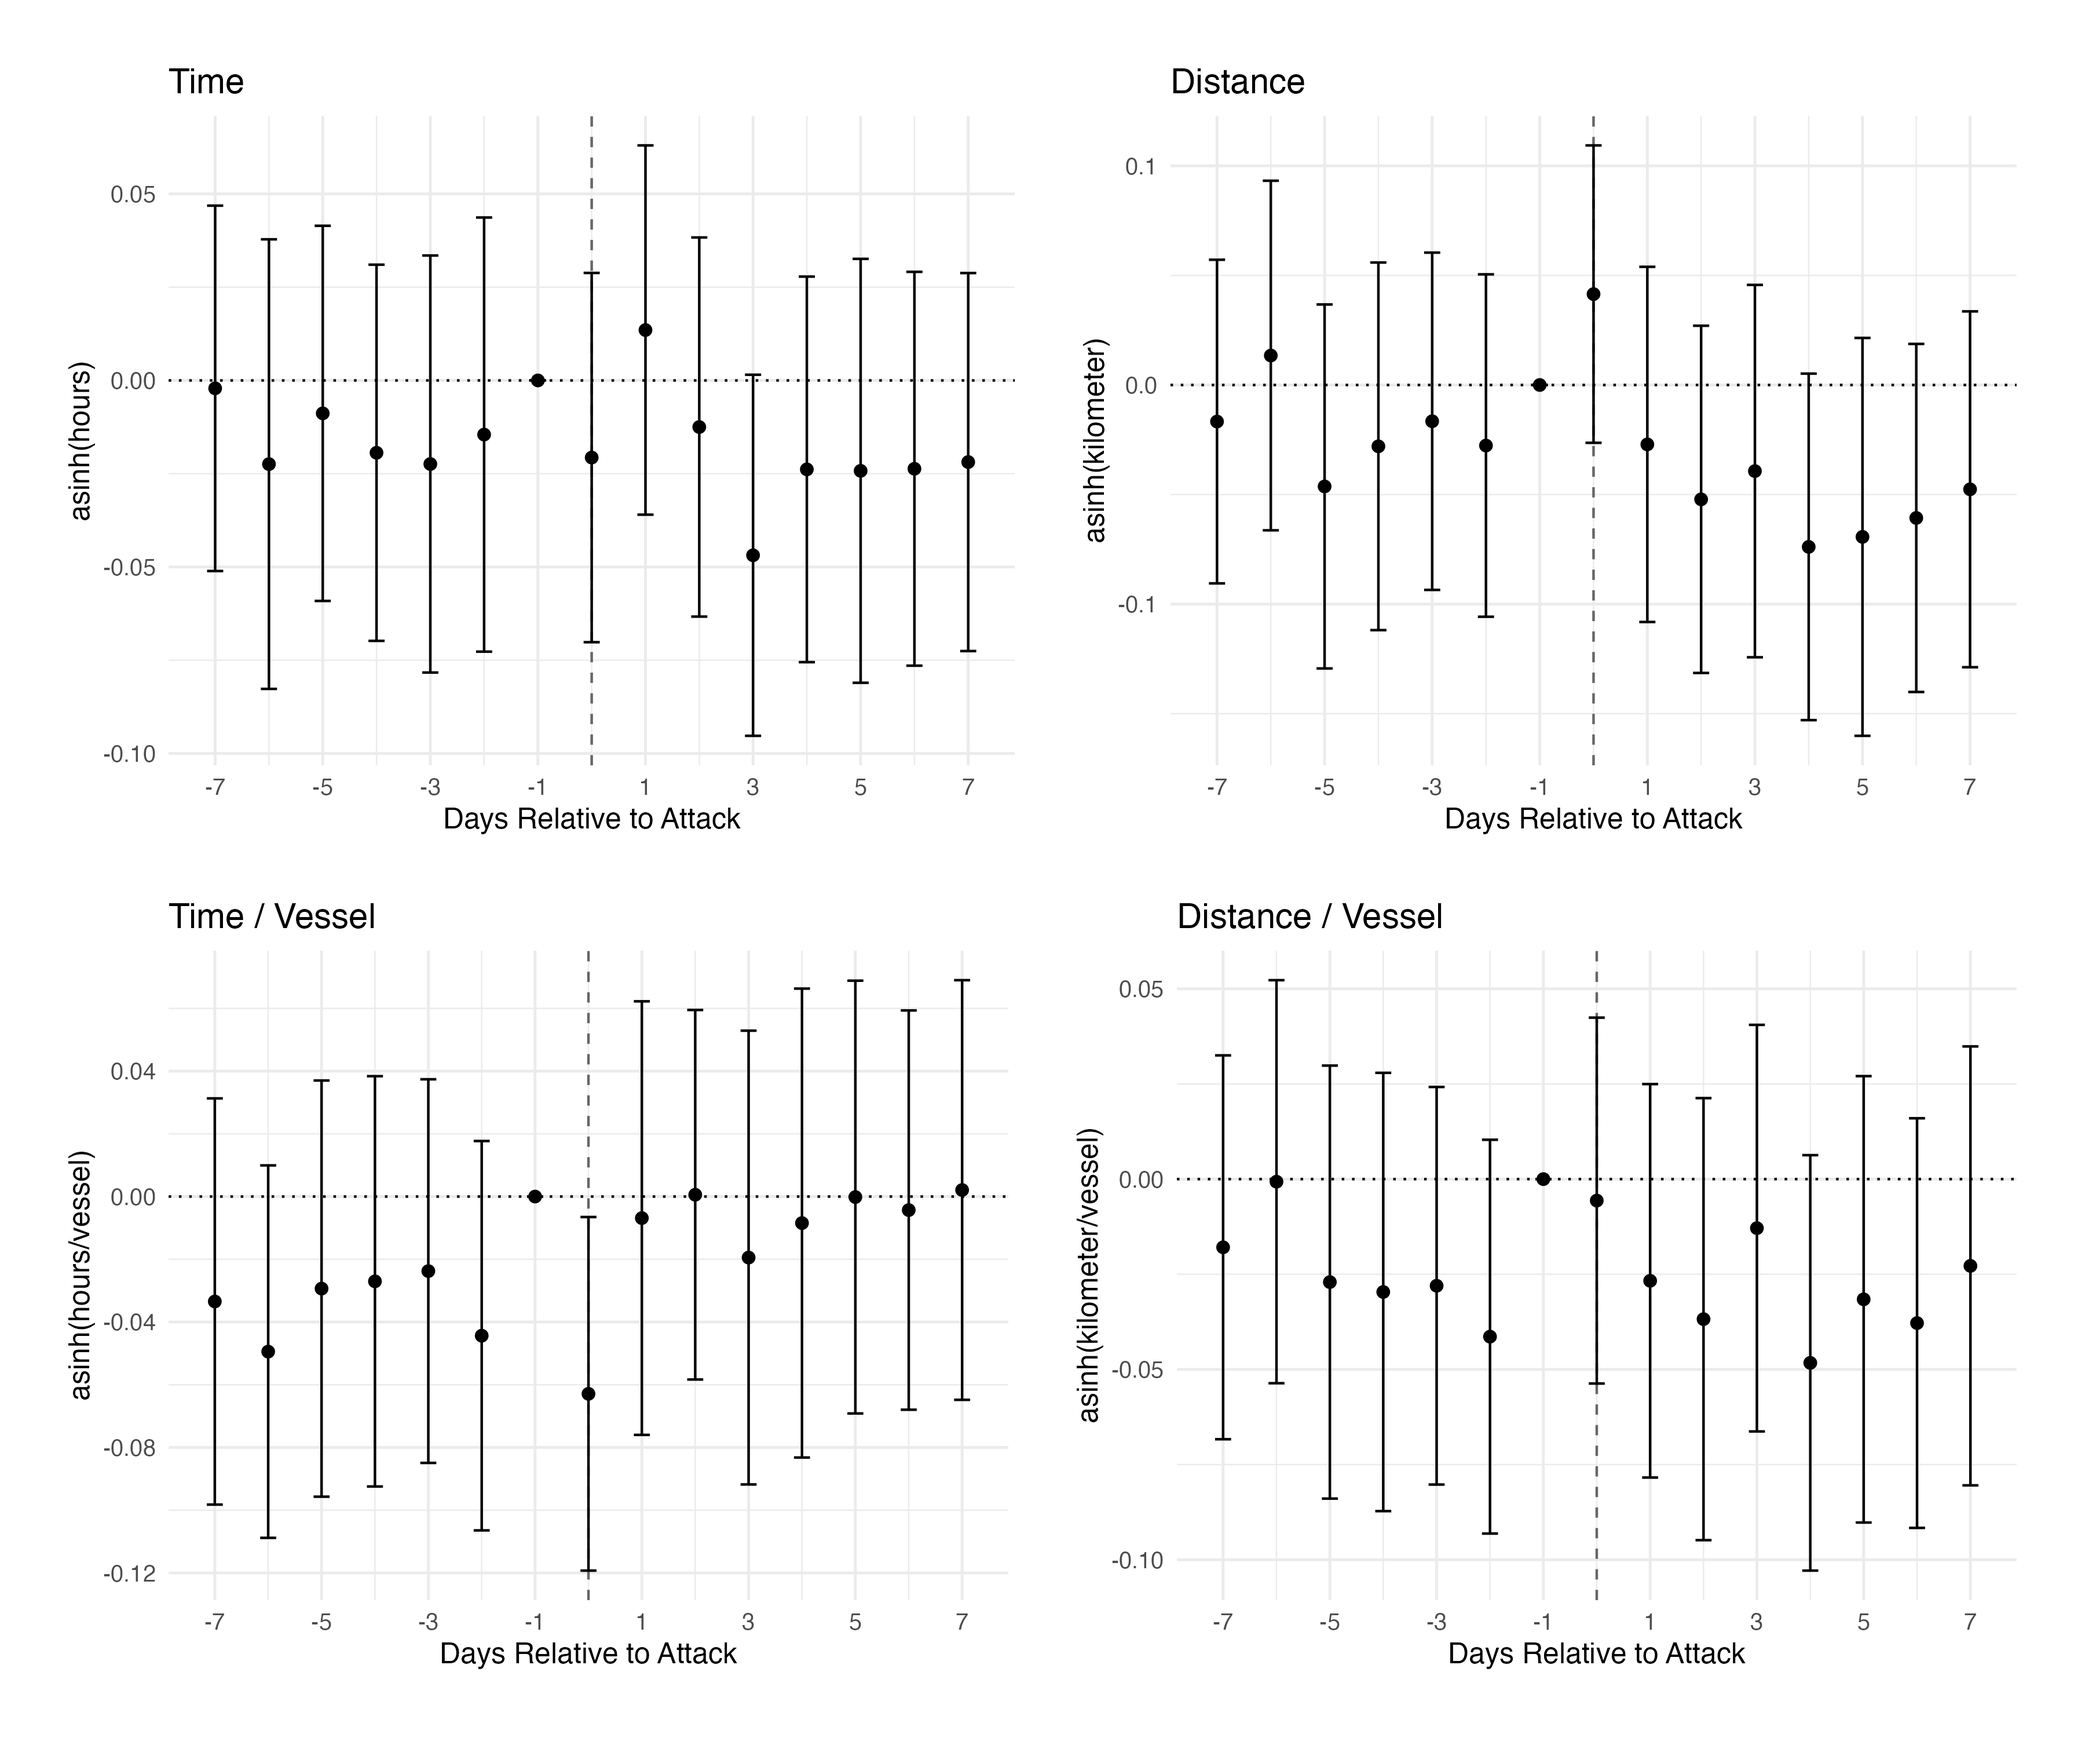
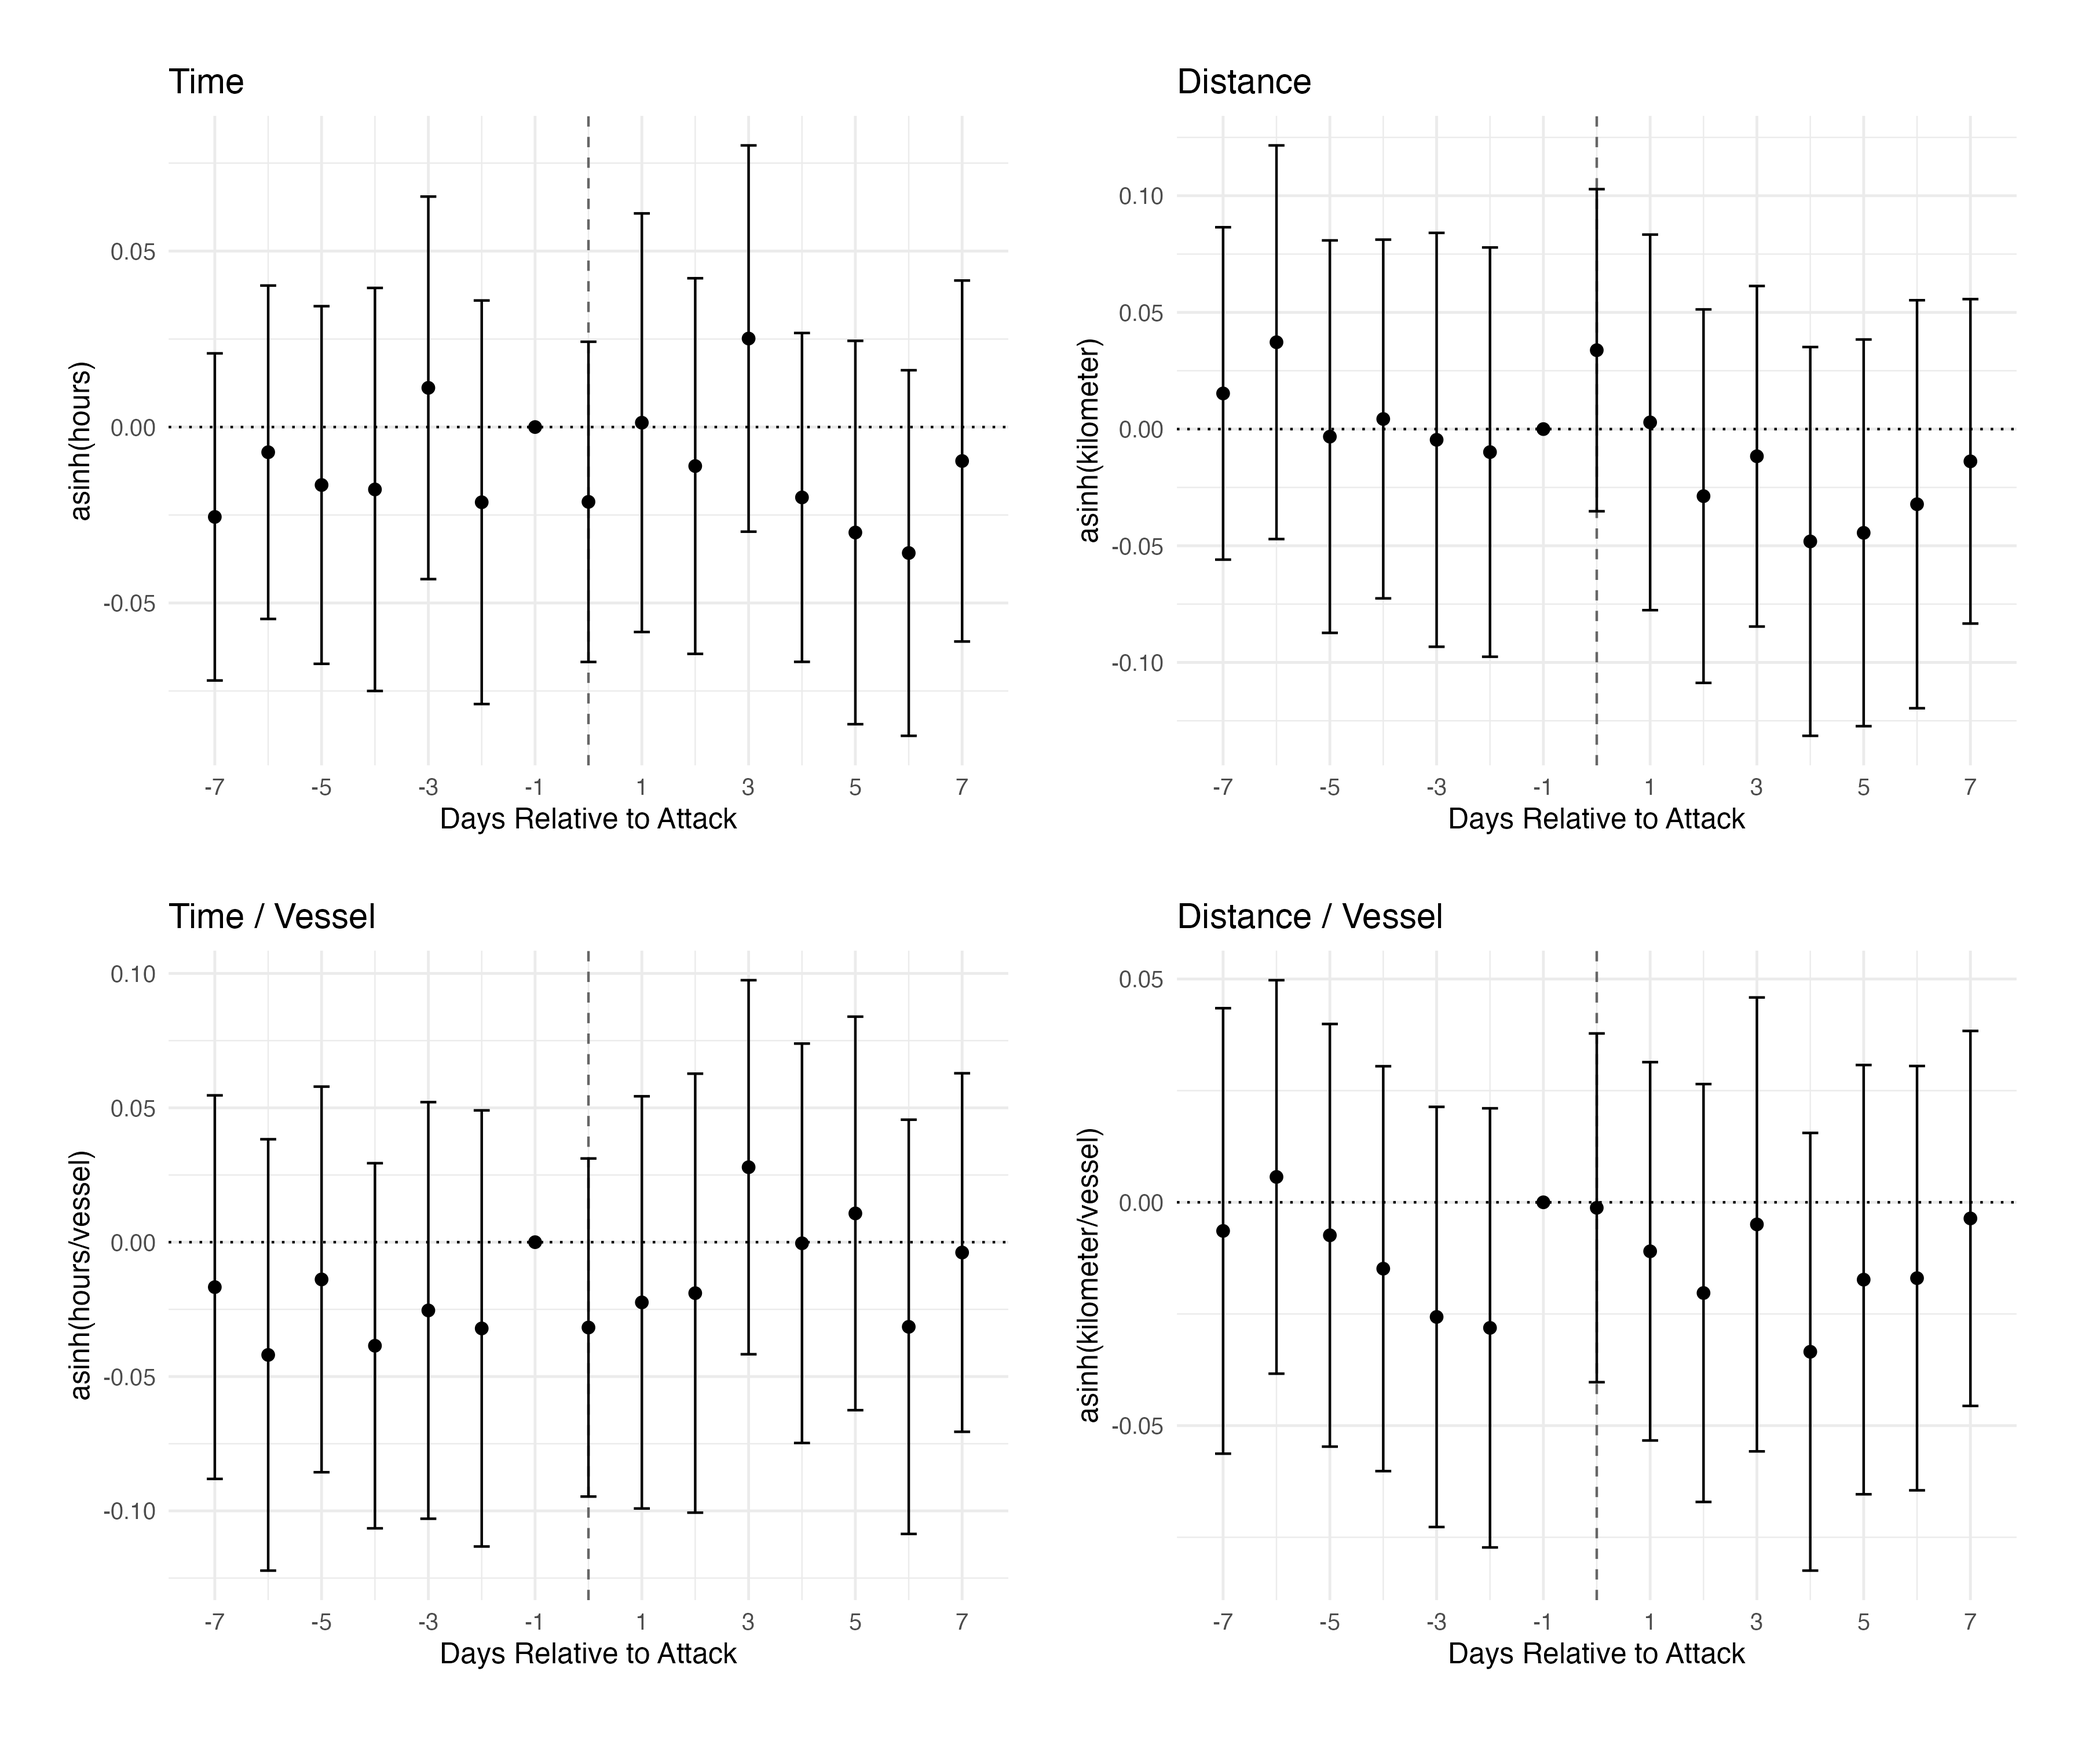
Updating estimates after updating gridcell data after Gavin's early August update

diff --git a/results/figures_and_tables/cell_post_regression.tex b/results/figures_and_tables/cell_post_regression.tex
@@ -8,10 +8,10 @@
 \toprule
   & Total Time & Total Distance & Time per Vessel & Distance per Vessel\\
 \midrule
-Post-Attack & \num{-0.043}*** & \num{0.007} & \num{-0.046}** & \num{0.009}\\
- & (\num{0.013}) & (\num{0.021}) & (\num{0.018}) & (\num{0.012})\\
+Post-Attack & \num{-0.043}*** & \num{-0.019} & \num{-0.037}** & \num{-0.018}\\
+ & (\num{0.012}) & (\num{0.019}) & (\num{0.015}) & (\num{0.011})\\
  &  &  &  & \\
-Observations & 24,518 & 24,518 & 21,244 & 24,518\\
+Observations & 27,975 & 27,975 & 24,347 & 27,975\\
  &  &  &  & \\
 Grid Cell FE & X & X & X & X\\
 Year-Month FE & X & X & X & X\\
